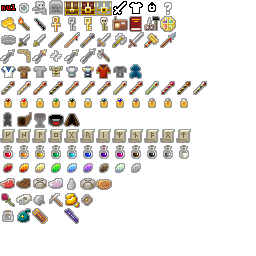
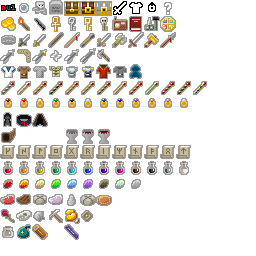
V0.2.0: Various artifact logic/sprite changes

Changed region(s): [[0.0, 0.4375, 0.75, 0.9375]]

diff --git a/src/com/shatteredpixel/shatteredpixeldungeon/sprites/ItemSpriteSheet.java b/src/com/shatteredpixel/shatteredpixeldungeon/sprites/ItemSpriteSheet.java
@@ -130,80 +130,88 @@ public class ItemSpriteSheet {
     public static final int RING_AGATE		= ROW7+10;
     public static final int RING_DIAMOND	= ROW7+11;
 
-    //Row Eight: Artifacts
-    //ssssshhh....
+    //Row Eight: Artifacts with Static Images
     public static final int ARTIFACT_CLOAK      = ROW8+0;
-    public static final int ARTIFACT_HORN       = ROW8+1;
-    public static final int ARTIFACT_CHALICE    = 0;
-    public static final int ARTIFACT_SANDALS    = 0;
-    public static final int ARTIFACT_ARMBAND    = 0;
-    public static final int ARTIFACT_CAPE       = 0;
+    public static final int ARTIFACT_ARMBAND    = ROW8+1;
+    public static final int ARTIFACT_CAPE       = ROW8+2;
     public static final int ARTIFACT_TALISMAN   = 0;
 
-    //Row Nine: Scrolls
-    public static final int SCROLL_KAUNAN	= ROW9+0;
-    public static final int SCROLL_SOWILO	= ROW9+1;
-    public static final int SCROLL_LAGUZ	= ROW9+2;
-    public static final int SCROLL_YNGVI	= ROW9+3;
-    public static final int SCROLL_GYFU		= ROW9+4;
-    public static final int SCROLL_RAIDO	= ROW9+5;
-    public static final int SCROLL_ISAZ		= ROW9+6;
-    public static final int SCROLL_MANNAZ	= ROW9+7;
-    public static final int SCROLL_NAUDIZ	= ROW9+8;
-    public static final int SCROLL_BERKANAN	= ROW9+9;
-    public static final int SCROLL_ODAL		= ROW9+10;
-    public static final int SCROLL_TIWAZ	= ROW9+11;
 
-    //Row Ten: Potions
-    public static final int POTION_CRIMSON		= ROW10+0;
-    public static final int POTION_AMBER		= ROW10+1;
-    public static final int POTION_GOLDEN		= ROW10+2;
-    public static final int POTION_JADE			= ROW10+3;
-    public static final int POTION_TURQUOISE    = ROW10+4;
-    public static final int POTION_AZURE		= ROW10+5;
-    public static final int POTION_INDIGO		= ROW10+6;
-    public static final int POTION_MAGENTA		= ROW10+7;
-    public static final int POTION_BISTRE		= ROW10+8;
-    public static final int POTION_CHARCOAL		= ROW10+9;
-    public static final int POTION_SILVER		= ROW10+10;
-    public static final int POTION_IVORY		= ROW10+11;
+    //Row Nine: Artifacts with Dynamic Images
+    public static final int ARTIFACT_HORN1      = ROW9+0;
+    public static final int ARTIFACT_HORN2      = ROW9+1;
+    public static final int ARTIFACT_HORN3      = ROW9+2;
+    public static final int ARTIFACT_HORN4      = ROW9+3;
+    public static final int ARTIFACT_CHALICE1   = ROW9+4;
+    public static final int ARTIFACT_CHALICE2   = ROW9+5;
+    public static final int ARTIFACT_CHALICE3   = ROW9+6;
+    public static final int ARTIFACT_SANDALS    = ROW9+7;
+    public static final int ARTIFACT_SHOES      = ROW9+8;
+    public static final int ARTIFACT_BOOTS      = ROW9+9;
+    public static final int ARTIFACT_LEGGINGS   = ROW9+10;
 
-    //Row Eleven: Seeds
-    public static final int SEED_ROTBERRY	= ROW11+0;
-    public static final int SEED_FIREBLOOM	= ROW11+1;
-    public static final int SEED_BLINDWEED	= ROW11+2;
-    public static final int SEED_SUNGRASS	= ROW11+3;
-    public static final int SEED_ICECAP		= ROW11+4;
-    public static final int SEED_SORROWMOSS	= ROW11+5;
-    public static final int SEED_EARTHROOT	= ROW11+6;
-    public static final int SEED_FADELEAF	= ROW11+7;
-    public static final int SEED_BLANDFRUIT	= ROW11+8;
+    //Row Ten: Scrolls
+    public static final int SCROLL_KAUNAN	= ROW10+0;
+    public static final int SCROLL_SOWILO	= ROW10+1;
+    public static final int SCROLL_LAGUZ	= ROW10+2;
+    public static final int SCROLL_YNGVI	= ROW10+3;
+    public static final int SCROLL_GYFU		= ROW10+4;
+    public static final int SCROLL_RAIDO	= ROW10+5;
+    public static final int SCROLL_ISAZ		= ROW10+6;
+    public static final int SCROLL_MANNAZ	= ROW10+7;
+    public static final int SCROLL_NAUDIZ	= ROW10+8;
+    public static final int SCROLL_BERKANAN	= ROW10+9;
+    public static final int SCROLL_ODAL		= ROW10+10;
+    public static final int SCROLL_TIWAZ	= ROW10+11;
 
-    //Row Twelve: Food
-    public static final int MEAT		= ROW12+0;
-    public static final int STEAK		= ROW12+1;
-    public static final int OVERPRICED	= ROW12+2;
-    public static final int CARPACCIO	= ROW12+3;
-    public static final int BLANDFRUIT	= ROW12+4;
-    public static final int RATION		= ROW12+5;
-    public static final int PASTY		= ROW12+6;
+    //Row Eleven: Potions
+    public static final int POTION_CRIMSON		= ROW11+0;
+    public static final int POTION_AMBER		= ROW11+1;
+    public static final int POTION_GOLDEN		= ROW11+2;
+    public static final int POTION_JADE			= ROW11+3;
+    public static final int POTION_TURQUOISE    = ROW11+4;
+    public static final int POTION_AZURE		= ROW11+5;
+    public static final int POTION_INDIGO		= ROW11+6;
+    public static final int POTION_MAGENTA		= ROW11+7;
+    public static final int POTION_BISTRE		= ROW11+8;
+    public static final int POTION_CHARCOAL		= ROW11+9;
+    public static final int POTION_SILVER		= ROW11+10;
+    public static final int POTION_IVORY		= ROW11+11;
 
-    //Row Thirteen: Quest Items
-    public static final int ROSE	= ROW13+0;
-    public static final int SKULL	= ROW13+1;
-    public static final int DUST	= ROW13+2;
-    public static final int PICKAXE	= ROW13+3;
-    public static final int ORE		= ROW13+4;
-    public static final int TOKEN	= ROW13+5;
+    //Row Twelve: Seeds
+    public static final int SEED_ROTBERRY	= ROW12+0;
+    public static final int SEED_FIREBLOOM	= ROW12+1;
+    public static final int SEED_BLINDWEED	= ROW12+2;
+    public static final int SEED_SUNGRASS	= ROW12+3;
+    public static final int SEED_ICECAP		= ROW12+4;
+    public static final int SEED_SORROWMOSS	= ROW12+5;
+    public static final int SEED_EARTHROOT	= ROW12+6;
+    public static final int SEED_FADELEAF	= ROW12+7;
+    public static final int SEED_BLANDFRUIT	= ROW12+8;
 
-    //Row Fourteen: Containers/Bags
-    public static final int VIAL	    = ROW14+0;
-    public static final int POUCH	    = ROW14+1;
-    public static final int HOLDER	    = ROW14+2;
-    public static final int BANDOLIER   = ROW14+3;
-    public static final int HOLSTER	    = ROW14+4;
+    //Row Theirteen: Food
+    public static final int MEAT		= ROW13+0;
+    public static final int STEAK		= ROW13+1;
+    public static final int OVERPRICED	= ROW13+2;
+    public static final int CARPACCIO	= ROW13+3;
+    public static final int BLANDFRUIT	= ROW13+4;
+    public static final int RATION		= ROW13+5;
+    public static final int PASTY		= ROW13+6;
 
-    //Row Fifteen: Unused
+    //Row Fourteen: Quest Items
+    public static final int ROSE	= ROW14+0;
+    public static final int SKULL	= ROW14+1;
+    public static final int DUST	= ROW14+2;
+    public static final int PICKAXE	= ROW14+3;
+    public static final int ORE		= ROW14+4;
+    public static final int TOKEN	= ROW14+5;
+
+    //Row Fifteen: Containers/Bags
+    public static final int VIAL	    = ROW15+0;
+    public static final int POUCH	    = ROW15+1;
+    public static final int HOLDER	    = ROW15+2;
+    public static final int BANDOLIER   = ROW15+3;
+    public static final int HOLSTER	    = ROW15+4;
 
     //Row Sixteen: Unused
 

diff --git a/src/com/shatteredpixel/shatteredpixeldungeon/items/artifacts/ChaliceOfBlood.java b/src/com/shatteredpixel/shatteredpixeldungeon/items/artifacts/ChaliceOfBlood.java
@@ -33,7 +33,7 @@ public class ChaliceOfBlood extends Artifact {
 
     {
         name = "Chalice of Blood";
-        image = ItemSpriteSheet.ARTIFACT_CHALICE;
+        image = ItemSpriteSheet.ARTIFACT_CHALICE1;
         level = 0;
         levelCap = 8;
         //charge & chargecap are unused
@@ -56,7 +56,7 @@ public class ChaliceOfBlood extends Artifact {
 
             int damage = (level*2)*(level*2);
 
-            if (damage > hero.HT*(3/4)) {
+            if (damage > hero.HP*0.75) {
 
                 GameScene.show(
                     new WndOptions(TXT_CHALICE, TXT_PRICK, TXT_YES, TXT_NO) {
@@ -79,15 +79,6 @@ public class ChaliceOfBlood extends Artifact {
 
         hero.spendAndNext(3f);
 
-        Earthroot.Armor armor = hero.buff(Earthroot.Armor.class);
-        if (armor != null) {
-            damage = armor.absorb(damage);
-        }
-
-        damage -= Random.IntRange(0, hero.dr());
-
-        hero.damage(damage, this);
-
         //TODO: make sure this look good
         if (damage == 0){
             GLog.i("You prick yourself, that hardly hurt at all!");
@@ -105,11 +96,27 @@ public class ChaliceOfBlood extends Artifact {
             hero.sprite.emitter().burst( ShadowParticle.CURSE, 6 );
         }
 
+        Earthroot.Armor armor = hero.buff(Earthroot.Armor.class);
+        if (armor != null) {
+            damage = armor.absorb(damage);
+        }
+
+        damage -= Random.IntRange(0, hero.dr());
+
+        hero.damage(damage, this);
+
+
+
         if (!hero.isAlive()) {
             Dungeon.fail(Utils.format(ResultDescriptions.ITEM, name, Dungeon.depth));
             GLog.n("The Chalice sucks your life essence dry...");
-        } else
+        } else {
             level++;
+            if (level >= 5)
+                image = ItemSpriteSheet.ARTIFACT_CHALICE2;
+            else if (level >= 3)
+                image = ItemSpriteSheet.ARTIFACT_CHALICE3;
+        }
     }
 
 

diff --git a/src/com/shatteredpixel/shatteredpixeldungeon/items/artifacts/Artifact.java b/src/com/shatteredpixel/shatteredpixeldungeon/items/artifacts/Artifact.java
@@ -31,6 +31,9 @@ public class Artifact extends KindofMisc {
     protected Buff activeBuff;
 
     //level is used internally to track upgrades to artifacts, size/logic varies per artifact.
+    //already inherited from item superclass
+    //exp is used to count progress towards levels for some artifacts
+    protected int exp = 0;
     //levelCap is the artifact's maximum level
     protected int levelCap = 0;
 
@@ -164,14 +167,14 @@ public class Artifact extends KindofMisc {
 
     @Override
     public void storeInBundle( Bundle bundle ) {
-        bundle.put( "level", level );
+        bundle.put( "exp", exp );
         bundle.put( "charge", charge );
         bundle.put( "partialcharge", partialCharge);
     }
 
     @Override
     public void restoreFromBundle( Bundle bundle ) {
-        level = bundle.getInt("level");
+        exp = bundle.getInt("exp");
         charge = bundle.getInt("charge");
         partialCharge = bundle.getFloat("partialcharge");
     }

diff --git a/src/com/shatteredpixel/shatteredpixeldungeon/items/artifacts/HornOfPlenty.java b/src/com/shatteredpixel/shatteredpixeldungeon/items/artifacts/HornOfPlenty.java
@@ -30,7 +30,7 @@ public class HornOfPlenty extends Artifact {
 
     {
         name = "Horn of Plenty";
-        image = ItemSpriteSheet.ARTIFACT_HORN;
+        image = ItemSpriteSheet.ARTIFACT_HORN1;
         level = 0;
         levelCap = 30;
         charge = 0;
@@ -97,7 +97,7 @@ public class HornOfPlenty extends Artifact {
 
             Badges.validateFoodEaten();
 
-            image = ItemSpriteSheet.ARTIFACT_HORN;
+            image = ItemSpriteSheet.ARTIFACT_HORN1;
 
         } else if (action.equals(AC_STORE)){
 

diff --git a/src/com/shatteredpixel/shatteredpixeldungeon/items/artifacts/CloakOfShadows.java b/src/com/shatteredpixel/shatteredpixeldungeon/items/artifacts/CloakOfShadows.java
@@ -224,7 +224,6 @@ public class CloakOfShadows extends Artifact {
         bundle.put("chargecap", chargeCap);
         bundle.put("stealthed", stealthed);
         bundle.put("cooldown", cooldown);
-        bundle.put("exp", exp);
     }
 
     @Override
@@ -233,6 +232,5 @@ public class CloakOfShadows extends Artifact {
         chargeCap = bundle.getInt("chargecap");
         stealthed = bundle.getBoolean("stealthed");
         cooldown = bundle.getInt("cooldown");
-        exp = bundle.getInt("exp");
     }
 }

diff --git a/src/com/shatteredpixel/shatteredpixeldungeon/items/ItemStatusHandler.java b/src/com/shatteredpixel/shatteredpixeldungeon/items/ItemStatusHandler.java
@@ -93,7 +93,7 @@ public class ItemStatusHandler<T extends Item> {
 			Class<? extends T> item = (Class<? extends T>)(items[i]);
 			String itemName = item.toString();
 			
-			if (bundle.contains( itemName + PFX_LABEL ) && Dungeon.version > 3) {
+			if (bundle.contains( itemName + PFX_LABEL ) && Dungeon.version > 4) {
 				
 				String label = bundle.getString( itemName + PFX_LABEL );
 				labels.put( item, label );
